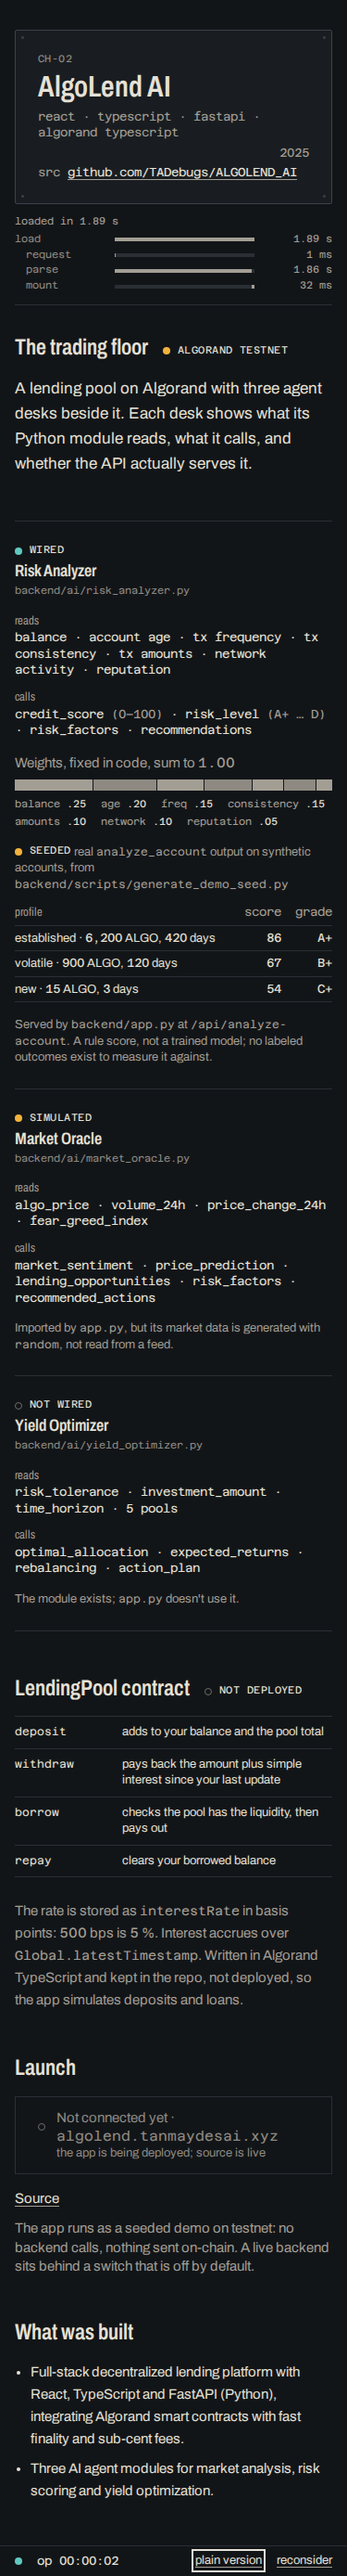
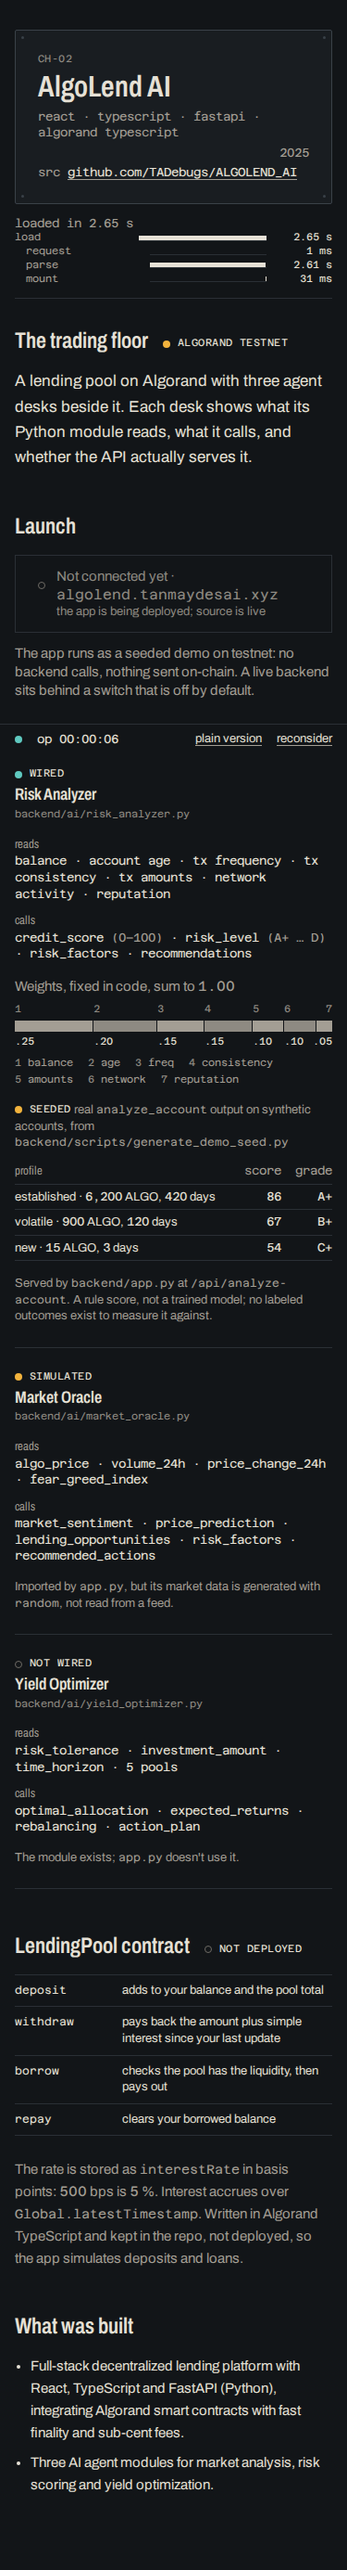
algolend r2: merge main, switch to real shared/motion (beat, motion.css, mountProgram); keep shell stub
Claude-Session: https://claude.ai/code/session_01BDJRcceAtFeJAZPBQLgPvs

diff --git a/algolend/index.html b/algolend/index.html
@@ -5,13 +5,12 @@
   <meta name="viewport" content="width=device-width, initial-scale=1, viewport-fit=cover">
   <title>CH-02 AlgoLend AI · Tanmay Desai</title>
   <meta name="description" content="AlgoLend AI: a lending-pool contract on Algorand testnet and three agent modules. Which desks are wired, what each reads and calls.">
-  <!-- STUB: swap to /shared/motion/beat.js when motion merges -->
-  <script src="/algolend/_stub/beat.js"></script>
+  <script src="/shared/motion/beat.js"></script>
   <link rel="preconnect" href="https://fonts.googleapis.com">
   <link rel="preconnect" href="https://fonts.gstatic.com" crossorigin>
   <link rel="stylesheet" href="https://fonts.googleapis.com/css2?family=Archivo:wdth,wght@75..100,400..600&family=Azeret+Mono:wght@400;500&display=swap">
   <link rel="stylesheet" href="/shared/tokens.css">
-  <!-- STUB: add <link rel="stylesheet" href="/shared/motion/motion.css"> when motion merges -->
+  <link rel="stylesheet" href="/shared/motion/motion.css">
   <style>
     * { box-sizing: border-box; margin: 0; }
     html { background: var(--panel); }
@@ -64,13 +63,6 @@
 
     /* trace rail */
     .trace-rail { border-bottom: var(--hair) solid var(--rule); padding: var(--s-3) 0; min-block-size: 44px; font-family: var(--font-mono); font-size: var(--fs-id); color: var(--legend-faint); }
-    .t-label { color: var(--legend-dim); margin-bottom: var(--s-1); }
-    .t-spans { list-style: none; padding: 0; display: grid; gap: 2px; }
-    .t-spans li { display: grid; grid-template-columns: 9rem 1fr 5rem; gap: var(--s-3); align-items: center; }
-    .t-spans .t-name { padding-inline-start: calc(var(--d) * var(--s-3)); }
-    .t-bar { display: block; block-size: 4px; background: var(--rule); }
-    .t-bar i { display: block; block-size: 100%; background: var(--legend-dim); }
-    .t-dur { text-align: end; color: var(--legend-dim); }
 
     main { display: grid; gap: var(--s-7); margin-top: var(--s-6); }
     .lede { font-size: var(--fs-read); line-height: var(--lh-read); max-inline-size: var(--measure); }
@@ -145,7 +137,6 @@
       .desk + .desk { border-top: var(--hair) solid var(--rule); }
       .contract { grid-template-columns: 1fr; }
       .asset-tag { padding: var(--s-5); }
-      .t-spans li { grid-template-columns: 6rem 1fr 4.5rem; }
       .status-line .loc { display: none; }
     }
     @media print {
@@ -273,8 +264,8 @@
   </div>
 
   <script type="module">
-    // STUB: swap both imports to /shared/motion/index.js and /construct/shell.js when they merge
-    import { mountProgram } from '/algolend/_stub/index.js';
+    import { mountProgram } from '/shared/motion/index.js';
+    // STUB: swap to /construct/shell.js when construct merges
     import { mountShell } from '/algolend/_stub/shell.js';
 
     // Launch state comes from projects.json only (DESIGN.md §5.6); the offline markup is the default

diff --git a/algolend/_stub/shell.js b/algolend/_stub/shell.js
@@ -1,7 +1,7 @@
 // STUB for /construct/shell.js (DESIGN.md §9). Same exports and signatures.
 // Renders a minimal status line (session lamp + clock, location, plain version, reconsider);
-// no terminal. Delete this file when construct merges.
-import { sessionClock, formatMs } from './index.js';
+// no terminal. Delete this file when construct (#7) merges.
+import { sessionClock, formatMs } from '/shared/motion/index.js';
 
 let shell = null;
 

diff --git a/.agents/handoff/algolend.md b/.agents/handoff/algolend.md
@@ -9,7 +9,9 @@ changes since r1 (critique .agents/critique/algolend-r1.md):
   Verified programmatically: every value and index starts at its segment's left edge at 1280 and 375.
 tested: 1280, 375, 375 + reduced motion; no horizontal scroll, no 4xx, no banned strings, keyboard order (src → /red → plain version → reconsider), offline launch not focusable.
 screenshots: .agents/critique/shots/algolend-r2-desktop.png, algolend-r2-375.png
-stub swap list: unchanged, see round 1 below.
+- Merged origin/main (motion #5). Swapped to the real modules: `/shared/motion/beat.js`, `/shared/motion/motion.css` (now linked), `mountProgram` from `/shared/motion/index.js`. Deleted `algolend/_stub/{beat,index}.js` and the page's `.t-*` trace CSS (motion.css defaults render the rail).
+  Verified: arrival via `loadProgram('algolend')` from `/shared/motion/demo.html` sets `html.is-beat` and clears it after mount; reduced motion skips the beat; rail renders load/request/parse/mount with real values.
+- Remaining stub: `algolend/_stub/shell.js` (imports sessionClock/formatMs from the real `/shared/motion/index.js`). When construct (#7) merges: change the import to `/construct/shell.js`, delete `algolend/_stub/`, and drop the page's `.status-line` CSS.
 
 ## algolend — round 1
 branch: agent/algolend
